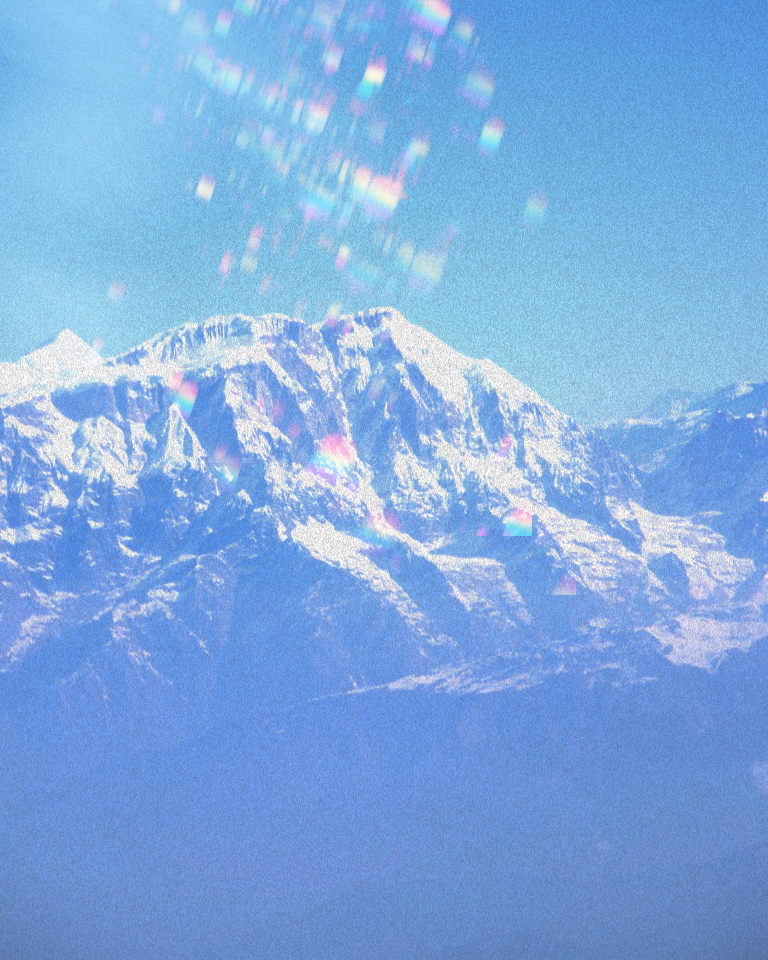
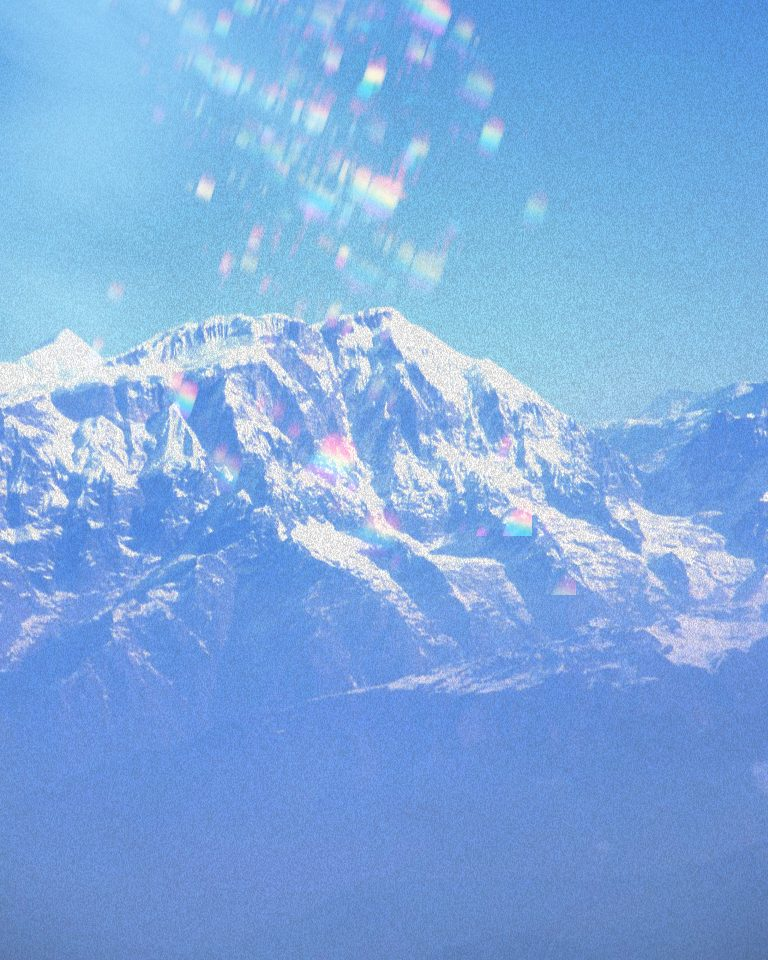
Mobile: ultra-smooth performance, 2-col layout, image compression
- JS: single video play on mobile, lighter preload (metadata), stricter visibility
- CSS: 2-per-row layout (50% columns), reduced backdrop-blur, no will-change on mobile
- Add compress_images.py; compress all photography images (max 1200px, JPEG 82%)
- .gitignore: add .venv/
- Remove videos/3d-design/3d-video-09.mp4 (staged deletion)

diff --git a/script.js b/script.js
@@ -6,81 +6,71 @@ class MediaManager {
         this.videoItems = document.querySelectorAll('.video-item');
         this.playingVideos = new Set();
         this.rafId = null;
+        this.isMobile = () => window.matchMedia('(max-width: 768px)').matches;
         this.init();
     }
 
     init() {
-        // Check if Intersection Observer is supported
         if ('IntersectionObserver' in window) {
             this.setupIntersectionObserver();
         } else {
-            // Fallback: play all videos if Intersection Observer is not supported
             this.playAllVideos();
         }
-
-        // Setup video event listeners
         this.setupVideoListeners();
-        
-        // Setup image lazy loading
         this.setupImageLoading();
     }
 
     setupIntersectionObserver() {
-        // Optimized for smooth playback - load videos early but intelligently
+        const mobile = this.isMobile();
         const observerOptions = {
             root: null,
-            rootMargin: '300px', // Start loading 300px before entering viewport
-            threshold: [0, 0.1, 0.5, 1.0] // Multiple thresholds for better control
+            rootMargin: mobile ? '80px' : '300px',
+            threshold: mobile ? [0, 0.25, 0.5, 0.75, 1] : [0, 0.1, 0.5, 1.0]
         };
 
         const observer = new IntersectionObserver((entries) => {
-            // Use requestAnimationFrame for smooth updates
-            if (this.rafId) {
-                cancelAnimationFrame(this.rafId);
-            }
-            
+            if (this.rafId) cancelAnimationFrame(this.rafId);
             this.rafId = requestAnimationFrame(() => {
                 entries.forEach(entry => {
                     const element = entry.target;
                     const videoItem = element.closest('.video-item');
-                    
-                    if (entry.isIntersecting && entry.intersectionRatio > 0.1) {
-                        // Check if it's a video or image
+                    const ratio = entry.intersectionRatio;
+
+                    if (entry.isIntersecting && ratio > 0.1) {
                         if (element.tagName === 'VIDEO') {
-                            // Preload video when approaching viewport
-                            if (entry.intersectionRatio < 0.5) {
-                                this.preloadVideo(element);
+                            if (mobile) {
+                                if (ratio >= 0.5) this.playVideoMobile(element, videoItem);
+                                else this.pauseVideo(element);
                             } else {
-                                // Play when fully visible
-                                this.playVideo(element, videoItem);
+                                if (ratio < 0.5) this.preloadVideo(element);
+                                else this.playVideo(element, videoItem);
                             }
                         } else if (element.tagName === 'IMG') {
                             this.loadImage(element, videoItem);
                         }
-                    } else if (!entry.isIntersecting) {
-                        // Pause video when out of view to save resources
-                        if (element.tagName === 'VIDEO') {
-                            this.pauseVideo(element);
-                        }
+                    } else if (!entry.isIntersecting && element.tagName === 'VIDEO') {
+                        this.pauseVideo(element);
                     }
                 });
             });
         }, observerOptions);
 
-        // Observe all videos and images
-        this.videos.forEach(video => {
-            observer.observe(video);
+        this.videos.forEach(v => observer.observe(v));
+        this.images.forEach(img => observer.observe(img));
+    }
+
+    playVideoMobile(video, videoItem) {
+        this.playingVideos.forEach(v => {
+            if (v !== video && !v.paused) this.pauseVideo(v);
         });
-        this.images.forEach(image => {
-            observer.observe(image);
-        });
+        this.playingVideos.clear();
+        this.playVideo(video, videoItem);
     }
 
     preloadVideo(video) {
-        // Preload video without playing
         if (video.readyState === 0) {
-            video.preload = 'auto';
-            video.load();
+            video.preload = this.isMobile() ? 'metadata' : 'auto';
+            if (!this.isMobile()) video.load();
         }
     }
 
@@ -121,14 +111,13 @@ class MediaManager {
     }
 
     setupVideoListeners() {
-        // Throttle timeupdate for better performance
+        const mobile = this.isMobile();
         let lastTimeUpdate = 0;
-        const timeUpdateThrottle = 100; // Update every 100ms instead of every frame
+        const timeUpdateThrottle = mobile ? 250 : 100;
 
         this.videos.forEach((video, index) => {
             const videoItem = video.closest('.video-item');
 
-            // Force autoplay, loop, and muted attributes for smooth playback
             video.autoplay = true;
             video.loop = true;
             video.muted = true;
@@ -137,14 +126,12 @@ class MediaManager {
             video.setAttribute('loop', 'true');
             video.setAttribute('muted', '');
             video.setAttribute('playsinline', '');
-            
-            // Enable hardware acceleration hints
-            video.style.transform = 'translateZ(0)';
-            video.style.willChange = 'transform';
 
-            // Optimize video loading
-            video.preload = 'auto';
-            video.setAttribute('preload', 'auto');
+            video.style.transform = 'translateZ(0)';
+            if (!mobile) video.style.willChange = 'transform';
+
+            video.preload = mobile ? 'metadata' : 'auto';
+            video.setAttribute('preload', mobile ? 'metadata' : 'auto');
 
             // Remove loading state when video can play
             video.addEventListener('loadeddata', () => {
@@ -204,19 +191,17 @@ class MediaManager {
                 this.playingVideos.delete(video);
             });
 
-            // Try to play immediately if video is already loaded
-            if (video.readyState >= 3) {
-                requestAnimationFrame(() => {
-                    video.play().catch(() => {});
-                });
+            if (video.readyState >= 3 && !mobile) {
+                requestAnimationFrame(() => video.play().catch(() => {}));
             }
         });
     }
 
     async playVideo(video, videoItem) {
-        // Skip if already playing
-        if (this.playingVideos.has(video) && !video.paused) {
-            return;
+        if (this.playingVideos.has(video) && !video.paused) return;
+        if (this.isMobile() && video.preload !== 'auto') {
+            video.preload = 'auto';
+            video.load();
         }
 
         try {
@@ -383,46 +368,42 @@ class HeaderScroll {
     }
 }
 
-// Initialize everything when DOM is ready - Optimized
 document.addEventListener('DOMContentLoaded', () => {
-    // Use requestIdleCallback for non-critical initialization
+    const isMobile = window.matchMedia('(max-width: 768px)').matches;
+    const delay = isMobile ? 300 : 100;
+    const timeout = isMobile ? 800 : 2000;
     if ('requestIdleCallback' in window) {
         requestIdleCallback(() => {
             new MediaManager();
             new SmoothScroll();
             new HeaderScroll();
-        }, { timeout: 2000 });
+        }, { timeout });
     } else {
-        // Fallback for browsers without requestIdleCallback
         setTimeout(() => {
             new MediaManager();
             new SmoothScroll();
             new HeaderScroll();
-        }, 100);
+        }, delay);
     }
 });
 
-// Handle page visibility changes - Optimized
 document.addEventListener('visibilitychange', () => {
     const videos = document.querySelectorAll('.video-player');
     if (document.hidden) {
-        // Pause all videos when tab is hidden to save resources
-        videos.forEach(video => {
-            if (!video.paused) {
-                video.pause();
-            }
-        });
+        videos.forEach(v => { if (!v.paused) v.pause(); });
     } else {
-        // Resume visible videos when tab becomes active
         requestAnimationFrame(() => {
+            const mobile = window.matchMedia('(max-width: 768px)').matches;
+            let played = 0;
             videos.forEach(video => {
                 const videoItem = video.closest('.video-item');
-                if (videoItem) {
-                    const rect = videoItem.getBoundingClientRect();
-                    const isVisible = rect.top < window.innerHeight && rect.bottom > 0;
-                    if (isVisible && video.paused) {
-                        video.play().catch(() => {});
-                    }
+                if (!videoItem) return;
+                const rect = videoItem.getBoundingClientRect();
+                const visible = rect.top < window.innerHeight && rect.bottom > 0;
+                if (visible && video.paused) {
+                    if (mobile && played >= 1) return;
+                    video.play().catch(() => {});
+                    if (mobile) played++;
                 }
             });
         });

diff --git a/styles.css b/styles.css
@@ -654,6 +654,8 @@ body::after {
         flex-direction: column;
         gap: 1rem;
         align-items: flex-start;
+        backdrop-filter: blur(12px);
+        -webkit-backdrop-filter: blur(12px);
     }
     
     .back-button {
@@ -668,15 +670,32 @@ body::after {
     }
     
     .video-grid {
+        display: flex;
         flex-wrap: wrap;
         max-width: 100%;
-        gap: 12px;
+        gap: 10px;
+        justify-content: space-between;
     }
     
     .video-column {
-        width: calc(50% - 6px);
-        min-width: 0;
-        flex: 0 0 calc(50% - 6px);
+        width: calc(50% - 5px) !important;
+        max-width: calc(50% - 5px);
+        min-width: 0 !important;
+        flex: 0 0 calc(50% - 5px);
+    }
+    
+    .video-item {
+        will-change: auto;
+        transition: opacity 0.2s ease;
+    }
+    
+    .video-item:hover {
+        transform: none;
+    }
+    
+    .video-player,
+    .media-image {
+        will-change: auto;
     }
     
     .title-main {
@@ -690,11 +709,18 @@ body::after {
     .overlay-title-main {
         font-size: 1.2rem;
     }
+    
+    section {
+        content-visibility: auto;
+        contain-intrinsic-size: auto 500px;
+    }
 }
 
 @media (max-width: 480px) {
     .header {
         padding: 1rem 1.5rem;
+        backdrop-filter: blur(10px);
+        -webkit-backdrop-filter: blur(10px);
     }
     
     .back-button {
@@ -709,13 +735,15 @@ body::after {
     }
     
     .video-grid {
-        gap: 10px;
+        gap: 8px;
+        justify-content: space-between;
     }
     
     .video-column {
-        width: calc(50% - 5px);
-        flex: 0 0 calc(50% - 5px);
-        min-width: 0;
+        width: calc(50% - 4px) !important;
+        max-width: calc(50% - 4px);
+        flex: 0 0 calc(50% - 4px);
+        min-width: 0 !important;
     }
     
     .title-main {

diff --git a/compress_images.py b/compress_images.py
@@ -1,0 +1,57 @@
+#!/usr/bin/env python3
+"""
+Compress images in photography folder for faster loading on mobile and desktop.
+Resizes to max 1200px width and compresses JPEG/PNG for web.
+"""
+
+import os
+from pathlib import Path
+
+try:
+    from PIL import Image
+except ImportError:
+    print("Installing Pillow...")
+    os.system("pip install Pillow -q")
+    from PIL import Image
+
+PHOTO_DIR = Path(__file__).parent / "photography"
+MAX_WIDTH = 1200
+JPEG_QUALITY = 82
+PNG_OPTIMIZE = True
+
+
+def compress_image(path: Path) -> None:
+    ext = path.suffix.lower()
+    if ext not in (".jpg", ".jpeg", ".png"):
+        return
+    try:
+        with Image.open(path) as img:
+            if img.mode in ("RGBA", "P"):
+                img = img.convert("RGB") if ext in (".jpg", ".jpeg") else img.convert("RGBA")
+            w, h = img.size
+            if w > MAX_WIDTH:
+                ratio = MAX_WIDTH / w
+                new_size = (MAX_WIDTH, int(h * ratio))
+                img = img.resize(new_size, Image.Resampling.LANCZOS)
+            out_path = path
+            if ext in (".jpg", ".jpeg"):
+                img.save(out_path, "JPEG", quality=JPEG_QUALITY, optimize=True)
+            else:
+                img.save(out_path, "PNG", optimize=PNG_OPTIMIZE)
+    except Exception as e:
+        print(f"Skip {path.name}: {e}")
+
+
+def main():
+    if not PHOTO_DIR.exists():
+        print("photography folder not found")
+        return
+    for f in PHOTO_DIR.iterdir():
+        if f.is_file() and f.suffix.lower() in (".jpg", ".jpeg", ".png"):
+            compress_image(f)
+            print(f"Compressed: {f.name}")
+    print("Done.")
+
+
+if __name__ == "__main__":
+    main()
